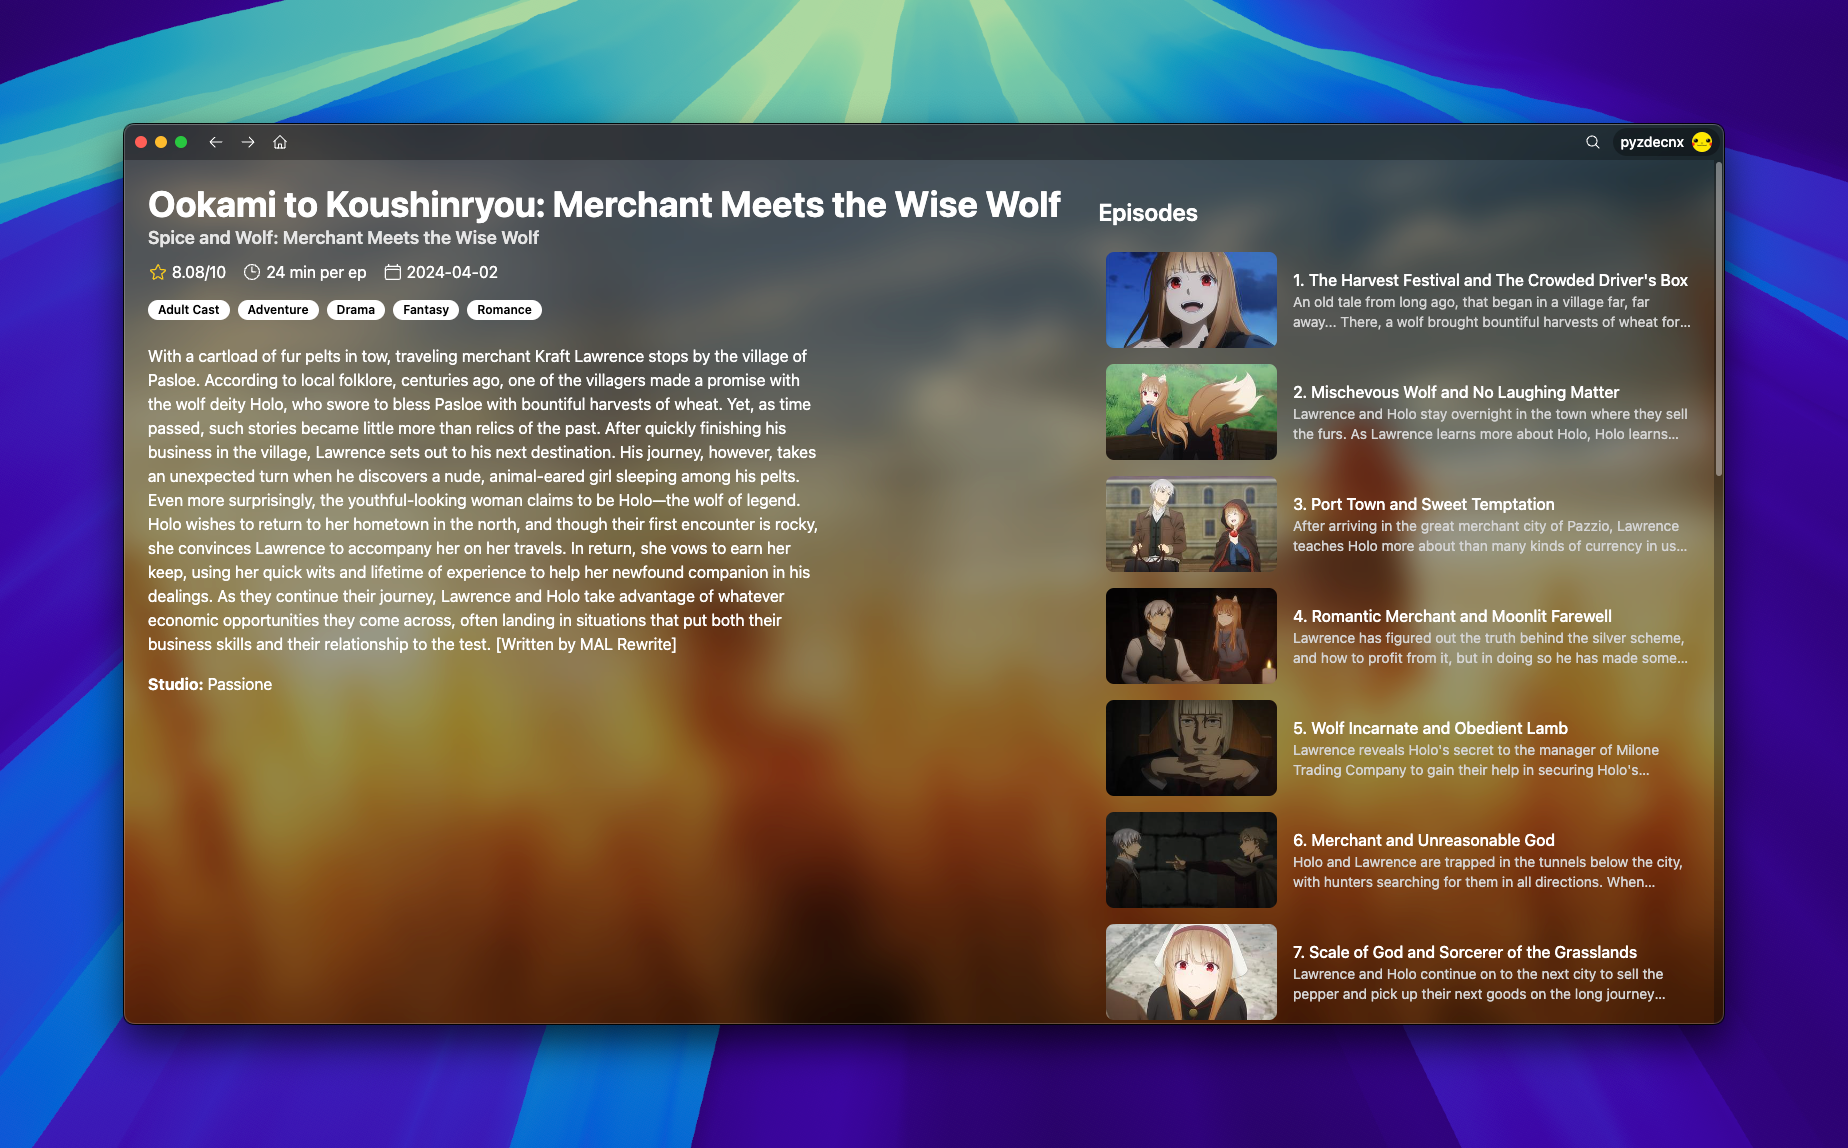
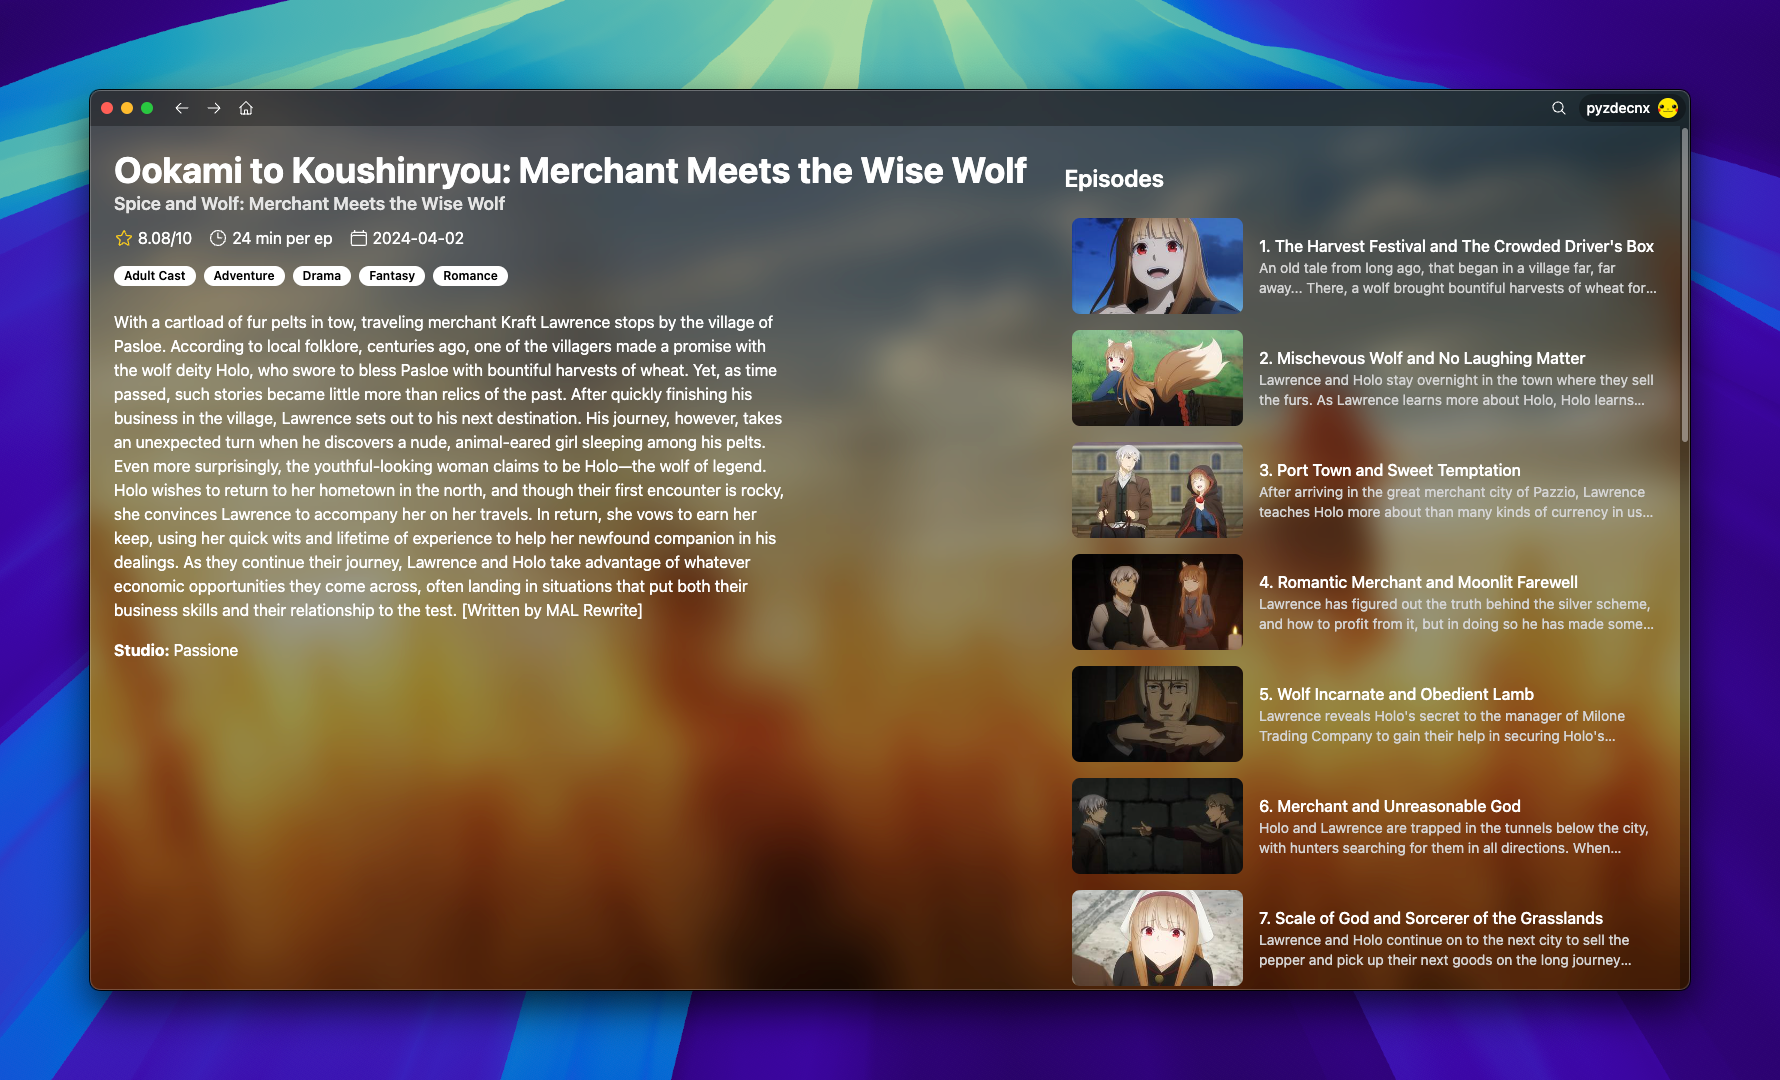
chore: update to nicer images, fix: image alt

diff --git a/src/modules/work/desktop/workDesktop.tsx b/src/modules/work/desktop/workDesktop.tsx
@@ -72,8 +72,8 @@ const WorkDesktop = () => {
                       <Image
                         key={image}
                         className="w-full rounded-t-3xl object-cover"
-                        placeholder="empty"
-                        alt=""
+                        placeholder="blur"
+                        alt={selectedItem.title}
                         src={image}
                         width={1920}
                         height={1080}
